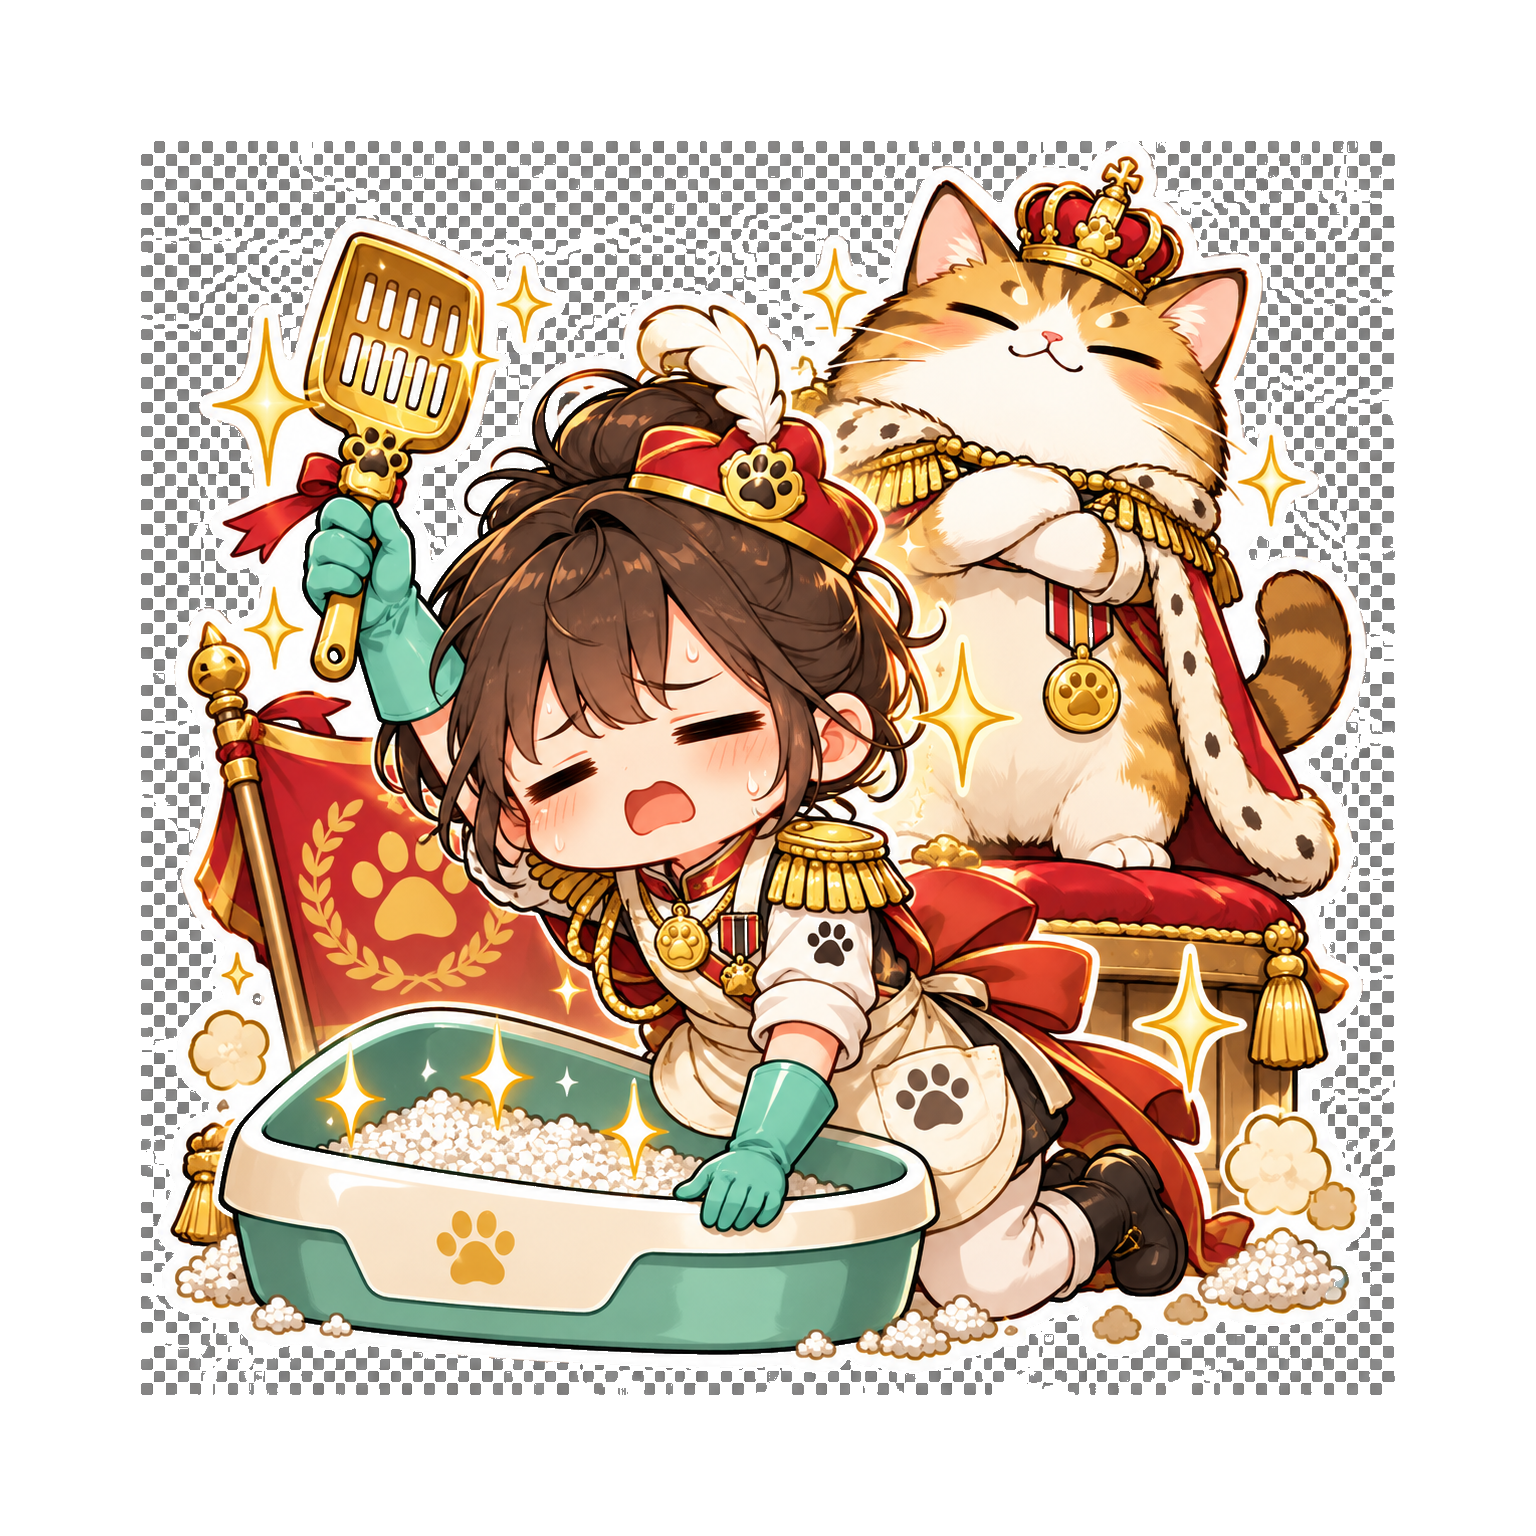
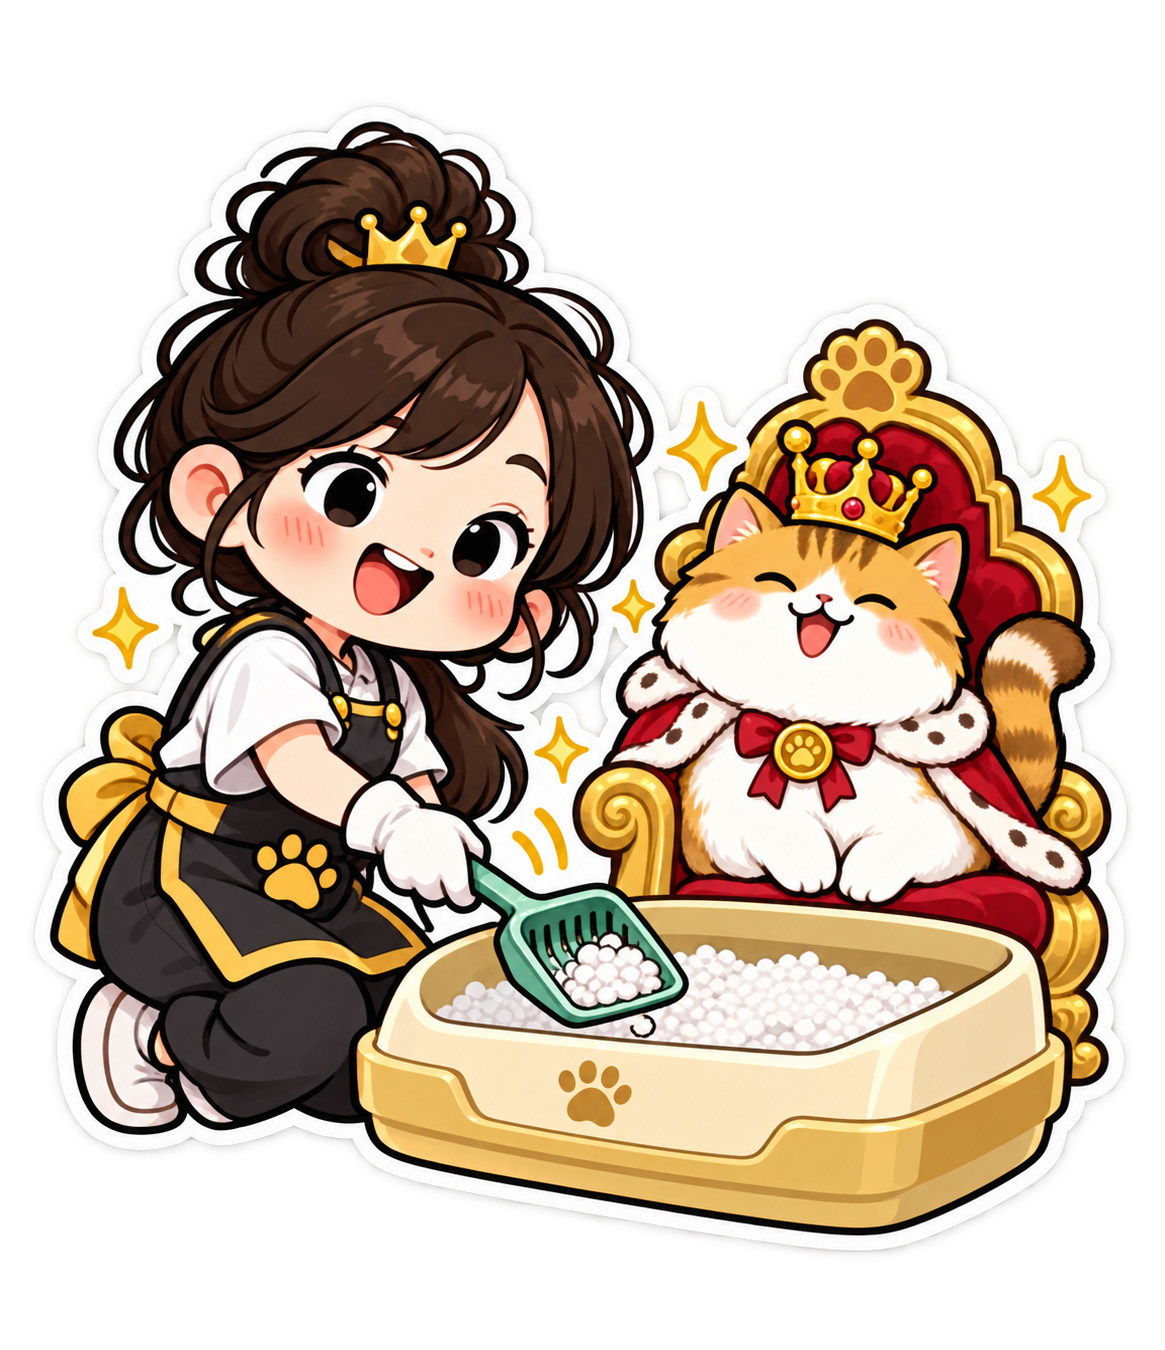
Replace blurry role artwork

diff --git a/src/App.jsx b/src/App.jsx
@@ -16,7 +16,7 @@ import { assetBase, catSuffixes, questions, roles, traits, uiCopy } from './data
 import { buildResultFromSlug, calculateResult, createShareText, getAllHiddenResults, getAllNormalResults } from './lib/scoring';
 import { clearDraft, readDraft, readLastResult, readUnlockedResults, saveDraft, saveLastResult, unlockResult } from './lib/storage';
 
-const assetVersion = '20260914a';
+const assetVersion = '20260914b';
 const versionedAsset = (path) => `${assetBase}${path}?v=${assetVersion}`;
 
 function getHashRoute() {
